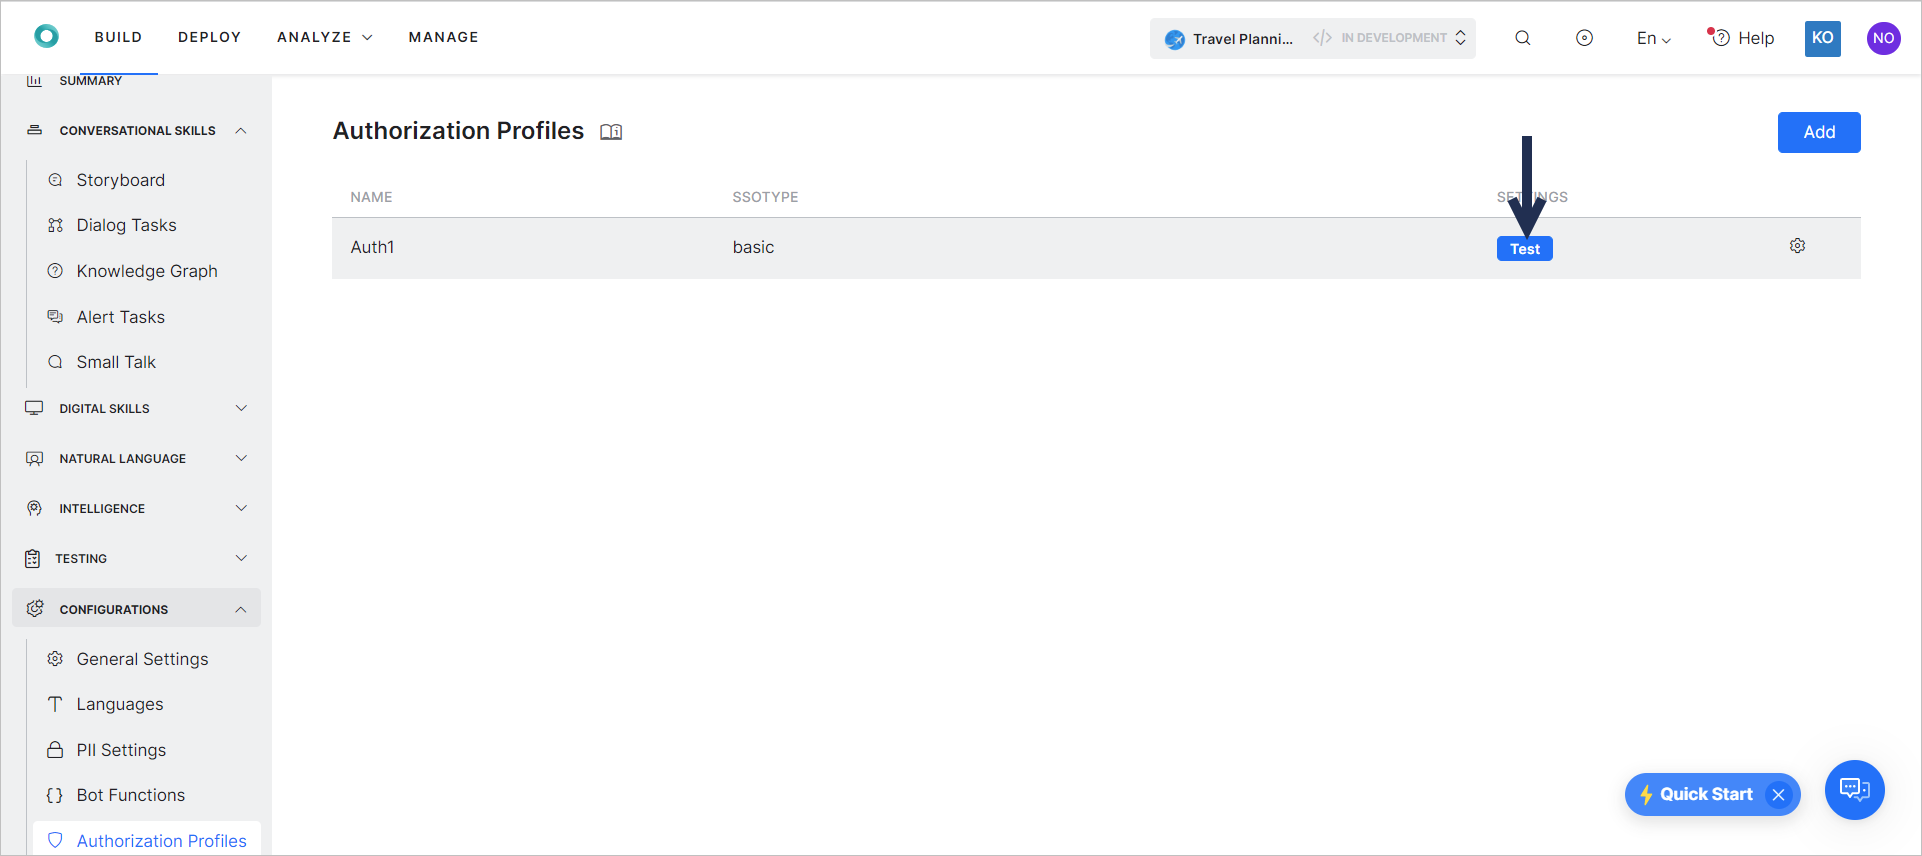
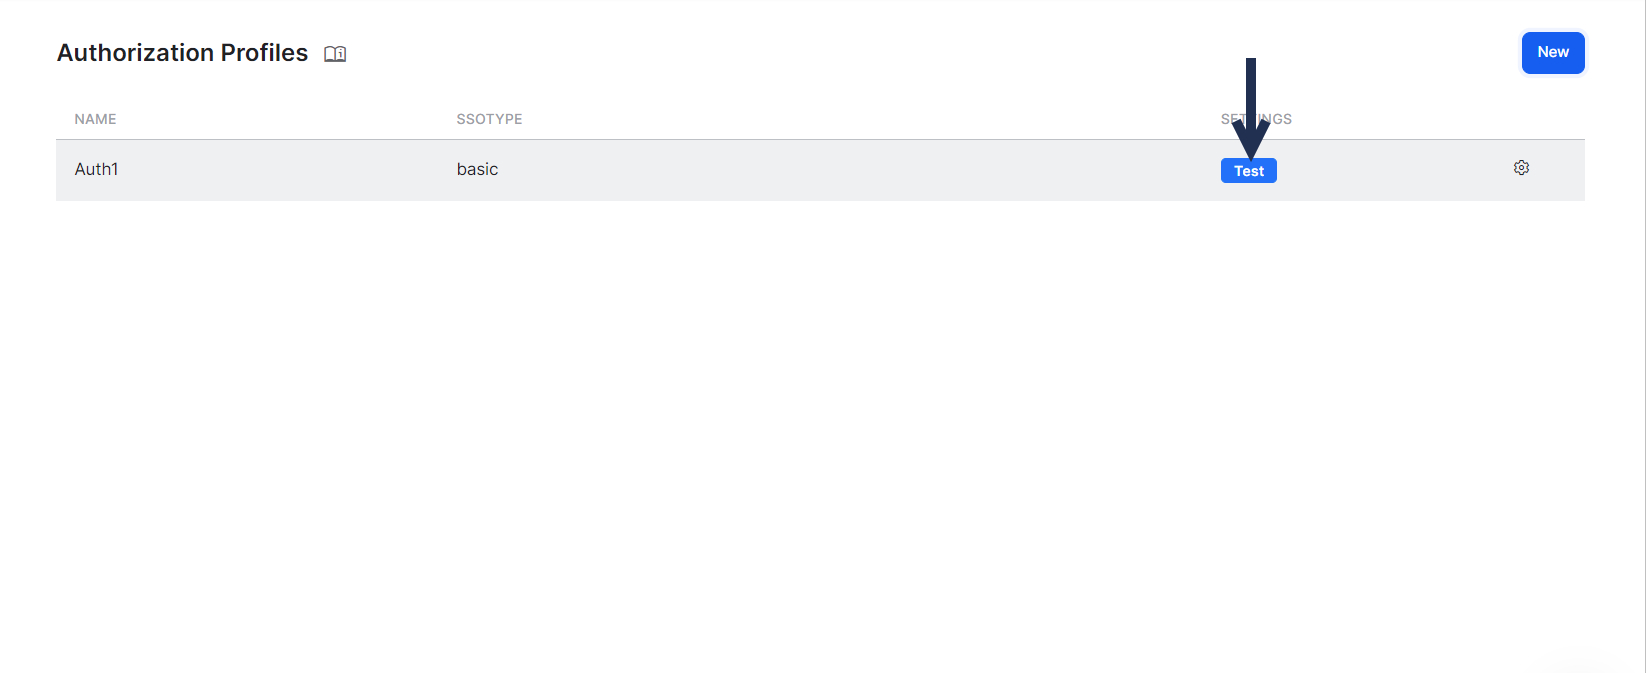
various document updates

diff --git a/docs/xo/automation/use-cases/dialogs/navigating-dialog-tasks.md b/docs/xo/automation/use-cases/dialogs/navigating-dialog-tasks.md
@@ -48,9 +48,8 @@ The first page you see here is the list of existing Dialog Tasks. Let us now go 
             If a Dialog Task has been created using our legacy builder, then you will have the option to upgrade to the new, Conversation-Driven builder. In your list, such tasks come with an upgrade icon (an upward arrow inside a gear symbol).
 
 * **Dialog Task Options** – When hovering over a task, you will see options to Edit, Clone or Delete the selected task. There is also a menu with more options, where you can View the task, configure Dialog Settings, Manage Interruptions or Amend Behavior.  
-  <p id="gdcalert2" ><span style="color: red; font-weight: bold">>>>>>  gd2md-html alert: inline image link here (to images/image2.png). Store image on your image server and adjust path/filename/extension if necessary. </span><br>(<a href="#">Back to top</a>)(<a href="#gdcalert3">Next alert</a>)<br><span style="color: red; font-weight: bold">>>>>> </span></p>  
     
-    ![alt_text](images/image2.png "image_tooltip")
+    <img src="../images/navigate-dialog-img2-dialog-task-options.png" alt="Dialog task options" title="Dialog task options" style="border:1px solid gray; zoom:60%;">
 
 * **Search Dialog Tasks** – If you are looking for a specific task, you can type its name here.
 * **Manage Components** – Use this button to reach the Dialog Components section, where you can manage entities, webhooks, messages, agent transfers, etc; that are in use within all Dialog Tasks within your VA. 
@@ -155,81 +154,24 @@ You can build Dialogs by adding and configuring [nodes](https://docsinternal-kor
 
 #### The Top Menu
 
-<p id="gdcalert7" ><span style="color: red; font-weight: bold">>>>>>  gd2md-html alert: inline image link here (to images/image7.png). Store image on your image server and adjust path/filename/extension if necessary. </span><br>(<a href="#">Back to top</a>)(<a href="#gdcalert8">Next alert</a>)<br><span style="color: red; font-weight: bold">>>>>> </span></p>
-
-![alt_text](images/image7.png "image_tooltip")
+<img src="../images/dialog-top-menu.png" alt="Top menu" title="Top menu" style="border:1px solid gray; zoom:60%;">
 
 
-The Conversation Design process occurs in the Conversation Designer. This comes with its specific top menu, where you can access the following features:
+The Dialog Design process occurs in the Conversation Designer. This comes with its specific top menu, where you can access the following features:
 
 * **Exit the Dialog Task Builder and go back to the Dialog Tasks List**.
+* **Add Bookmarks, Text and Comments**
+* **Find** nodes, variables, sequesnces etc
 * **Switch between Dialog Tasks** – Use this dropdown if you need to work on a different task. You don’t have to go back to the list to do so.
-* **Tabs designed for the main stages of the Dialog Task development process**. As previously mentioned, these are: Design, Build and Train.
-* **Preview** the conversation widget to see what it would look like on your website. This area also lets you customize the widget, and colleagues can add comments to the preview.
-* **Refresh** the builder page.
-* **Get Help** for contextual topics or find Kore.ai’s support channels. Please see Help and [Learning Resources ](https://developer.kore.ai/docs/bots/chatbot-overview/help/){:target="_blank"}for details.
-* **More options**, where you can **Edit** the Dialog Task’s name and description, or **Clone** it to make a copy.
+* **Test** to chat with the assistant in real-time to test recognition, performance, and flow as if it were a live session.
+* **View Warnings**
+* **Manage Zoom percentage and other visual settings**
+* **More options**, where you can access Dialog Settings, Manage Interruptions, Manage Amment behavior anf view comments.
 
 
-#### The Conversation Designer
+#### Build Business Logic - The Dialog Builder
 
-The Conversation Designer is where you can simulate an interaction between your users and the Virtual Assistant, using natural language. This designer is organized as a chat widget that allows you to configure user and bot messaging, using the base structure of a familiar chat conversation. Let us take a look at the features you can use.
-
-<p id="gdcalert8" ><span style="color: red; font-weight: bold">>>>>>  gd2md-html alert: inline image link here (to images/image8.png). Store image on your image server and adjust path/filename/extension if necessary. </span><br>(<a href="#">Back to top</a>)(<a href="#gdcalert9">Next alert</a>)<br><span style="color: red; font-weight: bold">>>>>> </span></p>
-
-![alt_text](images/image8.png "image_tooltip")
-
-
-* **Message Editor**: This is where you can type in the message exchanges within the conversation.
-* **Message Editor Tabs** for **Bot** and **User**. These determine whether your VA considers a message as coming from the user or from the VA. The editor switches between tabs by default when you add a message, but you can do so yourself when needed.
-* **Message Bubbles**: Each message you add (by hitting Enter/Return when done editing) is then displayed within the conversation as bubbles, just like in most other chat messaging services. Each bubble comes with options that are specific to that message.
-* **Message Options**: This is where you can **Edit, Configure Properties, Comment, Remove or Link a Node**. The _More Options_ button is accessible when hovering over a message bubble.
-* **Alternative Path**: This option lets you configure alternative paths that the conversation could take, with the currently selected message as the origin. The option is accessible when hovering over a bubble.
-* **Comments Icon**: If the Comments icon is visible when hovering over a message bubble, it means that there are existing comments added to that message. Clicking it allows you to view the comments history for that particular message, and to add your reply.  
-  
-    <p id="gdcalert9" ><span style="color: red; font-weight: bold">>>>>>  gd2md-html alert: inline image link here (to images/image9.png). Store image on your image server and adjust path/filename/extension if necessary. </span><br>(<a href="#">Back to top</a>)(<a href="#gdcalert10">Next alert</a>)<br><span style="color: red; font-weight: bold">>>>>> </span></p>  
-      
-    ![alt_text](images/image9.png "image_tooltip")
-
-* **Add Node**: Hovering in-between messages lets you add a new node, by choosing one of the available node types. You can connect to an existing node or create a new one.  
-
-    <p id="gdcalert10" ><span style="color: red; font-weight: bold">>>>>>  gd2md-html alert: inline image link here (to images/image10.png). Store image on your image server and adjust path/filename/extension if necessary. </span><br>(<a href="#">Back to top</a>)(<a href="#gdcalert11">Next alert</a>)<br><span style="color: red; font-weight: bold">>>>>> </span></p>  
-      
-    ![alt_text](images/image10.png "image_tooltip")
-
-* **Flow View**: This view lets you see the overall structure of your conversation, at a glance.  
-
-    <p id="gdcalert11" ><span style="color: red; font-weight: bold">>>>>>  gd2md-html alert: inline image link here (to images/image11.png). Store image on your image server and adjust path/filename/extension if necessary. </span><br>(<a href="#">Back to top</a>)(<a href="#gdcalert12">Next alert</a>)<br><span style="color: red; font-weight: bold">>>>>> </span></p>  
-      
-    ![alt_text](images/image11.png "image_tooltip")
-
-* **Talk to Bot** – This is where you can test your assistant, right from within the Conversation Designer.
-
-
-#### Build Business Logic
-
-**The Top Menu**
-
-<p id="gdcalert12" ><span style="color: red; font-weight: bold">>>>>>  gd2md-html alert: inline image link here (to images/image12.png). Store image on your image server and adjust path/filename/extension if necessary. </span><br>(<a href="#">Back to top</a>)(<a href="#gdcalert13">Next alert</a>)<br><span style="color: red; font-weight: bold">>>>>> </span></p>
-
-
-![alt_text](images/image12.png "image_tooltip")
-
-
-**The Dialog Builder**
-
-The Dialog Builder is where you can build business logic into your conversations. It comes with a dedicated top menu, which facilitates access to the following features:
-
-* **Navigate away from the Dialog Task Builder and back to the Dialog Tasks List**.
-* **Switch between Dialog Tasks** – Simply use this dropdown if you need to work on a different task. You don’t have to go back to the list to do so.
-* **Tabs related to the main stages of the Dialog Task development process**: Design, Build and Train.
-* **Errors and Warnings** – Use this notification area to see any potential errors or warnings that may arise throughout your development process.
-* **Find Nodes** – Use the search field to find nodes faster within your conversation flow.
-* **Comments** – Here is where you can browse, search and reply to comments made to the current dialog task.
-* **Help**– This is where you can find contextual insights and ways to receive support for your project. Please see [Help and Learning Resources](https://developer.kore.ai/docs/bots/chatbot-overview/help/){:target="_blank"} for details.
-* **Additional Options** – This menu provides access to: Display and Zoom Options, Auto-Arrange, Dialog Settings, Manage Interruptions and Amend Behavior.
-
-The Dialog Builder is where you have access to the tools you need in order to integrate your conversation scenarios with your business logic. Here is an overview of the features it provides.
+The Dialog Builder is where you can build business logic into your conversations. Here you have access to the tools you need in order to integrate your conversation scenarios with your business logic. Here is an overview of the features it provides.
 
 <p id="gdcalert13" ><span style="color: red; font-weight: bold">>>>>>  gd2md-html alert: inline image link here (to images/image13.png). Store image on your image server and adjust path/filename/extension if necessary. </span><br>(<a href="#">Back to top</a>)(<a href="#gdcalert14">Next alert</a>)<br><span style="color: red; font-weight: bold">>>>>> </span></p>
 

diff --git a/docs/xo/app-settings/dev-tools/bot-authorization/setting-up-authorization-using-basic-auth.md b/docs/xo/app-settings/dev-tools/bot-authorization/setting-up-authorization-using-basic-auth.md
@@ -23,8 +23,8 @@ To define Basic Authorization for your assistant, follow these steps:
 
 1. Open the VA for which you want to configure the Basic Authorization profile.
 2. Select the **Build** tab from the top menu.
-3. From the left menus, click **Configurations > Authorization Profile**
-4. Click **Add** to open the **New Authorization Mechanism** dialog.  
+3. From the left menus, click **App Settings**, then select **Dev Tools > Authorization Profiles**.
+4. Click **New** to open the **New Authorization Mechanism** dialog.  
 <img src="../images/basic-auth-img2.png" alt="New Auth mechanism - Add" title="New Auth mechanism - Add" style="border: 1px solid gray;zoom:50%;"/>
 
 5. In the **Authorization Type** drop-down list, select **Basic Auth**.

diff --git a/docs/xo/app-settings/language-management/multi-lingual-bot-behavior.md b/docs/xo/app-settings/language-management/multi-lingual-bot-behavior.md
@@ -465,6 +465,10 @@ Tagalog
 
 Here we will list out the NLP features and their support.
 
+!!! Note
+
+      The Spell Correction feature is not supported in Universal bots.
+
 
 <table border="1">
   <tr>
